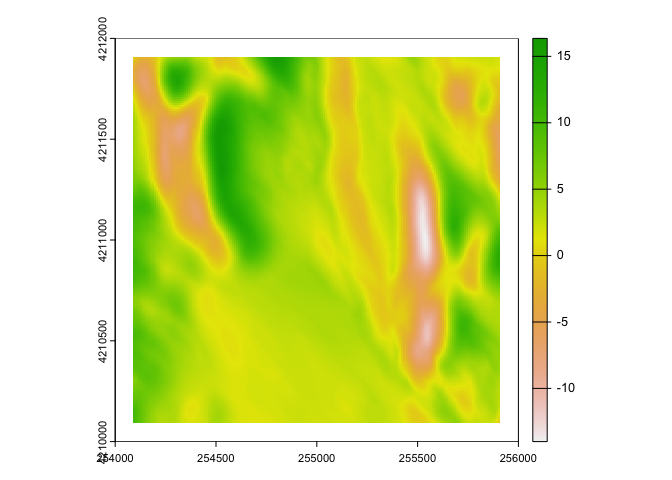
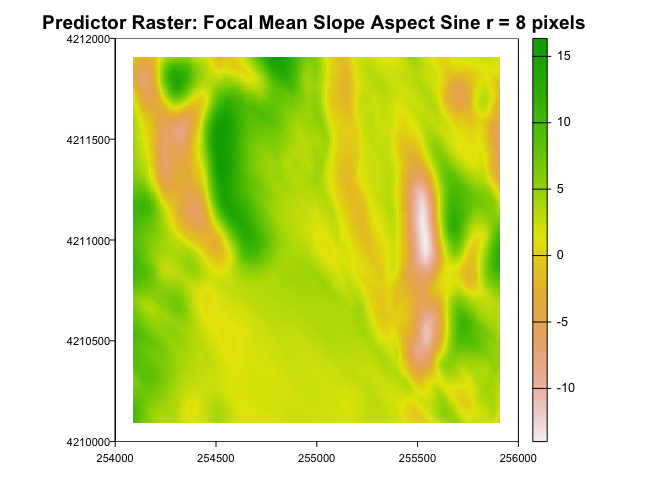
readme formatting and figure clean up

diff --git a/README.md b/README.md
@@ -3,16 +3,21 @@ VisiMod: Map Modeled Visibility Index Across Wildland Landscapes
 Katherine Mistick
 2023-09-26
 
-- <a href="#download-lidar-data-to-prepare-for-visimod-workflow"
-  id="toc-download-lidar-data-to-prepare-for-visimod-workflow"><strong>Download
-  lidar data to prepare for VisiMod workflow</strong></a>
-- <a href="#the-visimod-workflow"
-  id="toc-the-visimod-workflow"><strong>The VisiMod Workflow</strong></a>
-- <a href="#using-visimod-to-generate-an-rgb-vi-map"
-  id="toc-using-visimod-to-generate-an-rgb-vi-map"><strong>Using VisiMod()
-  to generate an RGB VI map</strong></a>
+- <a href="#1-intoduction" id="toc-1-intoduction"><strong>1
+  Intoduction</strong></a>
+- <a href="#2-download-lidar-data-to-prepare-for-visimod-workflow"
+  id="toc-2-download-lidar-data-to-prepare-for-visimod-workflow"><strong>2
+  Download lidar data to prepare for VisiMod workflow</strong></a>
+- <a href="#3-the-visimod-workflow"
+  id="toc-3-the-visimod-workflow"><strong>3 The VisiMod
+  Workflow</strong></a>
+- <a href="#4-using-visimod-to-generate-an-rgb-vi-map"
+  id="toc-4-using-visimod-to-generate-an-rgb-vi-map"><strong>4 Using
+  VisiMod() to generate an RGB VI map</strong></a>
 
 ------------------------------------------------------------------------
+
+## **1 Intoduction**
 
 The VisiMod package was built to facilitate visibility analyses. It
 provides a suite of tools that allows users to build predictive models
@@ -27,8 +32,7 @@ Instead of calculating VI by running viewsheds at every pixel in a
 rasterized study area, VisiMod allows users to build predictive models
 based on a sample of points (at which viewsheds are run using
 [terra::viewshed()](https://rdrr.io/cran/terra/man/viewshed.html)) to
-predict VI at every pixel. \[\[something here about a time
-comparison\]\]
+predict VI at every pixel.
 
 VisiMod is designed to be used in wildland (i.e. undeveloped) areas. It
 relies on a digital surface model (DSM) that is inclusive of vegetation.
@@ -41,7 +45,7 @@ To run the following examples the following packages must be loaded:
 `VisiMod`, `terra`, `leaflet`, `httr2`, `httr`, `lidR`, `future`,
 `ggplot2`
 
-## **Download lidar data to prepare for VisiMod workflow**
+## **2 Download lidar data to prepare for VisiMod workflow**
 
 ------------------------------------------------------------------------
 
@@ -52,18 +56,19 @@ typically are derived directly from lidar. The example below walks a
 user through downloading and processing four USGS 3DEP lidar tiles for
 use in the VisiMod workflow.
 
-For this example we’re going to look at a 4km<sup>2</sup> area in
-southern Utah, USA:
-
-![image](images/leaflet.png)
-
 We’ll use the National Map API, provided by the USGS, to access 3DEP
 lidar data. For more information on how to use the THM API, [click
 here](https://apps.nationalmap.gov/tnmaccess/#/). To interact with the
 TNM GUI and download data, [click
 here](https://apps.nationalmap.gov/downloader/).
 
-### **Set Up Directories**
+For this example we’re going to look at a 4km<sup>2</sup> area in
+southern Utah, USA:
+
+![image](images/leaflet.png) \*The above figure is a static image of an
+interactive leaflet map that does not render in this GitHub README.md
+
+### **2.1 Set Up Directories**
 
 First, we will set up our directories. In this example the main
 directory `lidar_dir` is a folder with four subfolders: `noise`, `dtms`,
@@ -91,7 +96,7 @@ for (folder in c("noise", "dtms", "dsms", "out_files")){
     ## [1] "Directory already exists."
     ## [1] "Directory already exists."
 
-### **Download lidar using The National Map API**
+### **2.2 Download lidar using The National Map API**
 
 Next we will search for available lidar products within our bounding
 box:
@@ -121,7 +126,7 @@ for (x in 1:length(resp_body_json(resp)[2]$items)){
 }
 ```
 
-### **Process lidar with lidR in R**
+### **2.3 Process lidar with lidR in R**
 
 Next we’ll use the [lidR package](https://r-lidar.github.io/lidRbook/)
 to process our tiles into a DTM and DSM. First we will read the files in
@@ -144,7 +149,7 @@ plot(cat)
 
 ![](README_files/figure-gfm/plot-las-cat-1.png)<!-- -->
 
-#### **Remove Noise**
+#### **2.4 Remove Noise**
 
 First we’ll clean up the lidar data to remove any noise. This step can
 look very different depending on your lidar data. Some datasets are
@@ -179,7 +184,7 @@ cat_clean <- readLAScatalog(clean_dir)
 opt_filter(cat_clean) <- "-drop_class 7 18 -drop_withheld"
 ```
 
-#### **Generate Rasters**
+#### **2.5 Generate Rasters**
 
 Next we’ll generate our 1 meter DTM and DSM using `rasterize_terrain()`
 and `rasterize_canopy()`. This step will genereate and save a raster (in
@@ -211,7 +216,7 @@ dtm_tiles <- list.files(dtm_dir, pattern = "*.tif", full.names = T)
 dtm_rasts <- lapply(dtm_tiles, rast)
 dtm_sprc <- sprc(dtm_rasts)
 dtm <- mosaic(dtm_sprc)
-plot(dtm)
+plot(dtm, main = "Digital Terrain Model", las = 1)
 ```
 
 ![](README_files/figure-gfm/unnamed-chunk-5-1.png)<!-- -->
@@ -228,7 +233,7 @@ dsm_tiles <- list.files(dsm_dir, pattern = "*.tif", full.names = T)
 dsm_rasts <- lapply(dsm_tiles, rast)
 dsm_sprc <- sprc(dsm_rasts)
 dsm <- mosaic(dsm_sprc)
-plot(dsm)
+plot(dsm, main = "Digital Surface Model", las = 1)
 ```
 
 ![](README_files/figure-gfm/unnamed-chunk-6-1.png)<!-- -->
@@ -243,16 +248,16 @@ canopy height:
 
 ``` r
 chm <- dsm-dtm
-plot(chm)
+plot(chm, main = "Canopy Height", las = 1)
 ```
 
 ![](README_files/figure-gfm/unnamed-chunk-7-1.png)<!-- -->
 
-## **The VisiMod Workflow**
+## **3 The VisiMod Workflow**
 
 ------------------------------------------------------------------------
 
-### **1 Prepare Digital Elevation Models**
+### **3.1 Prepare Digital Elevation Models**
 
 The first step in the VisiMod workflow is to run your DTM and DSM
 through the `prep_dems()` function. This function checks if the two
@@ -278,7 +283,7 @@ dsm <- rast(file.path(lidar_dir, "out_files", "dsm.tif"))
 pdems <- prep_dems(dtm, dsm, file.path(lidar_dir, "out_files","dtm_filled.tif"), file.path(lidar_dir, "out_files","dsm_filled.tif"))
 ```
 
-### **2 Generate Points**
+### **3.2 Generate Points**
 
 The second step in the VisiMod workflow is to generate x, y locations to
 be used as training and validation points for building one or more VI
@@ -303,22 +308,22 @@ head(gp)
 ```
 
     ##          x       y
-    ## 1 255239.8 4211167
-    ## 2 255386.9 4210695
-    ## 3 254274.4 4210989
-    ## 4 255333.8 4210861
-    ## 5 254895.4 4211180
-    ## 6 254313.2 4211301
+    ## 1 254392.3 4210479
+    ## 2 254806.5 4211583
+    ## 3 255624.3 4211408
+    ## 4 255317.4 4210752
+    ## 5 255125.8 4211715
+    ## 6 254472.3 4210830
 
 ``` r
 v <- vect(cbind(gp$x, gp$y))
-plot(pdems$dsm)
+plot(pdems$dsm, main = "Point locations overlaid on DSM", las = 1)
 plot(v, add=TRUE)
 ```
 
 ![](README_files/figure-gfm/gen-pts-1.png)<!-- -->
 
-### **3 Calculate VI**
+### **3.3 Calculate VI**
 
 The next step in the VisiMod workflow is `calc_vi()` which calculates VI
 at each point location. VI represents the proportion of area visible
@@ -342,7 +347,7 @@ df <- cv    # grab a copy of cv so we don't add any unnecessary columns to our w
 
 pal = colorRampPalette(c("black", "white"))
 df$order = findInterval(df$vi_125, sort(df$vi_125))
-plot(pdems$dsm-dtm, legend= TRUE)
+plot(pdems$dsm-dtm, legend= TRUE, main = "Points colored by VI", las= 1)
 plot(v, add=TRUE, col = pal(nrow(df))[df$order])
 legend(x = 254000, y = 4212000,
        col = c("black", "white"), pch = c(19,19),
@@ -351,7 +356,7 @@ legend(x = 254000, y = 4212000,
 
 ![](README_files/figure-gfm/calc-vi-1.png)<!-- -->
 
-### **4 Generate Model Predictors**
+### **3.4 Generate Model Predictors**
 
 Following the calculation of VI at each point, next in the VisiMod
 workflow is the generation of predictors at each point. The
@@ -387,26 +392,26 @@ head(preds$pred_pts, c(5, 10))
 ```
 
     ##          x       y elevation     slope slope_derivative     curvature
-    ## 1 254269.0 4210505  1936.144 10.956374        17.273523 -0.0041740956
-    ## 2 254274.2 4211505  2004.471 16.563305         4.316786 -0.0003721081
-    ## 3 254274.4 4210989  1958.277  7.605523        16.207669 -0.0071026596
-    ## 4 254285.0 4211384  1996.699 15.298848         8.244572 -0.0003576484
-    ## 5 254285.6 4210933  1962.483  8.625675        21.108549  0.0030124446
+    ## 1 254263.8 4211072  1962.282  3.517082         3.696996  0.0002666081
+    ## 2 254265.5 4211595  2007.420 10.597324        10.179141 -0.0083113323
+    ## 3 254273.1 4210880  1962.056  5.780371         9.563362  0.0016854052
+    ## 4 254273.6 4210702  1952.414 12.090441         7.474173  0.0031182637
+    ## 5 254278.0 4210951  1961.891  8.838022        17.539475  0.0050088583
     ##   curvature_plan curvature_prof aspect_sin aspect_cos
-    ## 1   3.529037e-04  -0.0045269993  0.9233380  0.3723001
-    ## 2  -8.163127e-05  -0.0002904768 -0.9079582 -0.4188400
-    ## 3  -1.790710e-03  -0.0053119497  0.9666404  0.2093625
-    ## 4   8.333471e-04  -0.0011909955 -0.9672533 -0.2537587
-    ## 5  -1.209667e-03   0.0042221112  0.8586871  0.5123970
+    ## 1  -0.0007022235   0.0009688316  0.2044818 -0.9546580
+    ## 2  -0.0072064691  -0.0011048632 -0.9224564 -0.3775824
+    ## 3  -0.0004064385   0.0020918436 -0.4506411 -0.8912237
+    ## 4   0.0018054329   0.0013128309  0.9913468 -0.1148407
+    ## 5   0.0005946159   0.0044142424  0.7442665  0.6617904
 
 ``` r
 # plot an example predictor raster
-plot(preds$pred_rast[["slope_aspect_sin_mean_8"]])
+plot(preds$pred_rast[["slope_aspect_sin_mean_8"]], main = "Predictor Raster: Focal Mean Slope Aspect Sine r = 8 pixels ", las = 1)
 ```
 
 ![](README_files/figure-gfm/gen-preds-1.png)<!-- -->
 
-### **5 Build Random Forest Model**
+### **3.5 Build Random Forest Model**
 
 Now that we have points with VI and predictor values we can move to the
 next step in VisiMod which is to build a predictive model using
@@ -430,13 +435,13 @@ head(mod125$perf_mets)
 ```
 
     ## $r2
-    ## [1] 0.8041906
+    ## [1] 0.8264932
     ## 
     ## $rmse
-    ## [1] 0.07715502
+    ## [1] 0.07105915
     ## 
     ## $nrmse
-    ## [1] 0.1433014
+    ## [1] 0.1341938
 
 ``` r
 mod250<- mod_vi(preds$pred_pts, 250, cross_validate = TRUE, tune = FALSE, num_cores = 4)
@@ -449,15 +454,15 @@ head(mod250$perf_mets)
 ```
 
     ## $r2
-    ## [1] 0.6821234
+    ## [1] 0.7424491
     ## 
     ## $rmse
-    ## [1] 0.06254355
+    ## [1] 0.05387138
     ## 
     ## $nrmse
-    ## [1] 0.1635197
+    ## [1] 0.1484116
 
-### **6 Map VI**
+### **3.6 Map VI**
 
 The final step in the VisiMod workflow is to map VI across the entire
 study area, using the random forest model built in `mod_vi()` and the
@@ -468,39 +473,49 @@ radii (125 m and 250 m).
 
 ``` r
 map125 <- map_vi(mod125$ranger_mod, preds$pred_rast, 4, FALSE)
-plot(map125)
+plot(map125, main = "Omnidirectional VI at a 125 m radius", las=1)
 ```
 
 ![](README_files/figure-gfm/map-vi-1.png)<!-- -->
 
 ``` r
 map250 <- map_vi(mod250$ranger_mod, preds$pred_rast, 4, FALSE)
-plot(map250)
+plot(map250, main = "Omnidirectional VI at a 250 m radius", las=1)
 ```
 
 ![](README_files/figure-gfm/map-vi-2.png)<!-- -->
 
-## **Using VisiMod() to generate an RGB VI map**
+## **4 Using VisiMod() to generate an RGB VI map**
 
 ------------------------------------------------------------------------
 
-### **Run the Function**
+### **4.1 Run the Function**
 
-Now that we have prepared our DTM and DSM we are ready to run some
-functions from VisiMod. We’ll start with the all-encompassing
-`VisiMod()` function. This function runs through the entire VisiMod
-workflow and returns a list of rasters with mapped VI values. First we
-have to define our input rasters, then we run `VisiMod()`. In this
-example we are going to generate three VI maps, at azimuths of 0 degrees
-(looking north), 120 degrees (looking southeast), and 240 degrees
-(looking southwest) each with a field of view of 120 degrees.
+The all-encompassing `VisiMod()` function runs through the entire
+VisiMod workflow and returns a list of rasters with mapped VI values.
+All users must do is provide an input DTM and DSM, then they can run
+`VisiMod()`. In this example we are going to generate three VI maps, at
+azimuths of 0 degrees (looking north), 120 degrees (looking southeast),
+and 240 degrees (looking southwest) (`vi_azi = c(0,120,240)`) each with
+a field of view of 120 degrees (`vi_fov = 120`).
+
+We recommend running `VisiMod()` if you are only interested in the
+output VI map(s). If you are interested in saving intermediary outputs
+(the points used in modeling, the ranger model objects, etc.) we
+recommend running the workflow described in section 3.
+
+`VisiMod()` makes assumptions for input parameters in two of the
+internal functions: `gen_preds` and `mod_vi()`. For `gen_preds()` a
+default aggregation factor of 10 is assumed. For `mod_vi()`
+`cross_validate` and `tune` are assumed to be `FALSE`. If users wish to
+toggle these parameters they should run the workflow described in
+section 3.
 
 Running this example with 4 cores resulted in a total run time of 3
 minutes and 25 seconds. Many messages will print indicating progress.
 When working with larger datasets it is not unusual for `calc_vi()` and
-`gen_preds()` to perform slowly. Notably, the step that generates
-predictors at 32 pixel radii tends to be slow, if it appears frozen at
-this step please be patient.
+`gen_preds()` to perform slowly. Also notable, the step that generates
+predictors at 32 pixel radii tends to be slow..
 
 ``` r
 # define your input params
@@ -522,7 +537,7 @@ channel with which they will be visualized in the next step.
 
 ``` r
 # plot the dsm as our basemap (zoom in a bit)
-plot(dsm, ext = ext(dsm)-750)
+plot(dsm, ext = ext(dsm)-750, main = "Example of Wedge() Function")
 
 # use the midpoint as the point from which our wedge will be drawn 
 x <- (ext(dtm)[2]+ext(dtm)[1])/2
@@ -540,10 +555,10 @@ plot(w, col = "blue", add=TRUE)
 
 ![](README_files/figure-gfm/unnamed-chunk-8-1.png)<!-- -->
 
-### **Using plotRGB() to plot VI**
+### **4.2 Using plotRGB() to plot VI**
 
 The first option for plotting VI is using the plotRGB() function from
-the terra library. This is an easy way to plot 3 band rasters
+the `terra` library. This is an easy way to plot 3 band rasters
 
 Since `VisiMod()` returns a list of three single-band rasters, we must
 combine them into a multiband raster before we can plot an RGB map. We
@@ -563,7 +578,7 @@ plotRGB(vi, r=1,g=2,b=3, scale = 1, stretch="lin", axes = TRUE, mar = c(3,3), xl
 
 ![](README_files/figure-gfm/plot-visimod-output-1.png)<!-- -->
 
-### **Using ggplot2 to plot RGB VI map**
+### **4.3 Using ggplot2 to plot RGB VI map**
 
 `ggplot2` is a powerful and popular library for creating graphics. While
 not built explicitly to plot raster data, it can easily plot rasters
@@ -583,8 +598,9 @@ p <- ggplot(data=vi_df, aes(x=x,y=y)) +
   geom_raster(fill = rgb(r = vi_df$vi_d125_f120_a0,
                          g=vi_df$vi_d125_f120_a120,
                          b=vi_df$vi_d125_f120_a240, maxColorValue =1)) +
-  ylab("UTM (zone 12N) Northing")+
-  xlab("UTM (zone 12N) Easting") + 
+  ylab("UTM Northing")+
+  xlab("UTM Easting") + 
+  ggtitle("Directional VI") +
   scale_x_continuous(expand = expansion(c(0,0)))+
   scale_y_continuous(expand = expansion(c(0,0)))+
   theme(panel.background = element_rect(color = NA, fill = NA),
